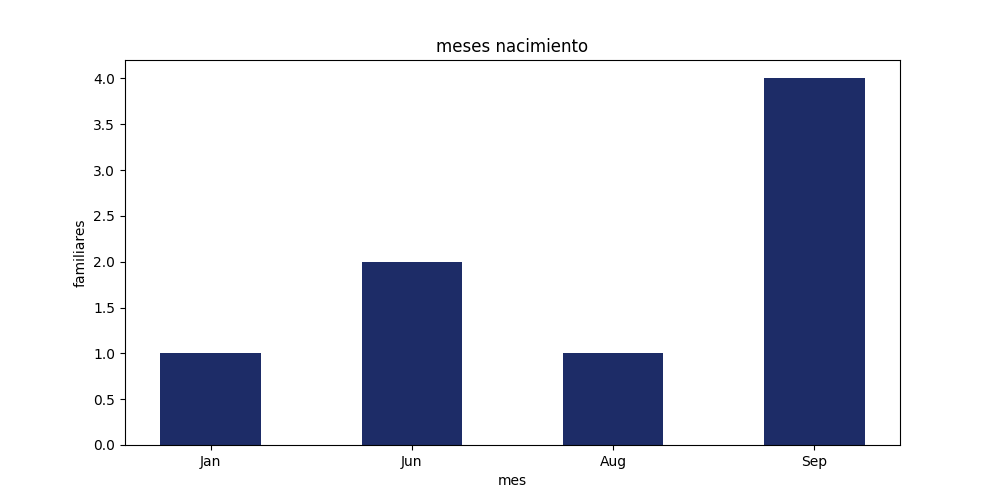
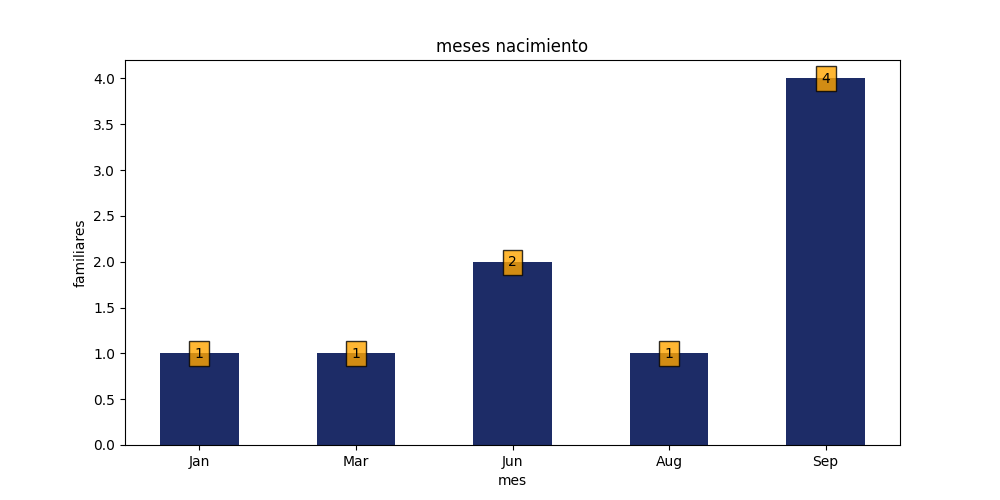
creacion de forms py, emebellezimiento de grafico

diff --git a/arbolFamiliarApp/templatetags/grafico_edades.py b/arbolFamiliarApp/templatetags/grafico_edades.py
@@ -8,6 +8,12 @@ register = template.Library()
 
 @register.simple_tag
 def grafico(familia):
+    """
+    It takes a list of objects, and returns a dictionary with the number of objects per month.
+
+    :param familia: list of Familiar objects
+    :return: A dictionary with the months as keys and the number of family members as values.
+    """
     pariente_x_mes = dict()
 
     for familiar in familia:
@@ -33,13 +39,28 @@ def grafico(familia):
             pariente_x_mes.items(), key=lambda x: datetime.datetime.strptime(x[0], "%b")
         )
     )
+
     print(pariente_x_mes)
     print(ordered_data)
+
+    parientes = []
+    for pariente in ordered_data.values():
+        parientes.append(pariente)
+
+    print(parientes)
     fig = plt.figure(figsize=(10, 5))
 
     # creating the bar plot
     plt.bar(ordered_data.keys(), ordered_data.values(), color="#1d2c67", width=0.5)
 
+    for i in range(len(parientes)):
+        plt.text(
+            i,
+            (parientes[i] - 0.05),
+            round(parientes[i], 1),
+            ha="center",
+            bbox=dict(facecolor="orange", alpha=0.8),
+        )
     plt.xlabel("mes")
     plt.ylabel("familiares")
     plt.title("meses nacimiento")

diff --git a/arbolFamiliarApp/models.py b/arbolFamiliarApp/models.py
@@ -12,10 +12,3 @@ class Familia(models.Model):
 
     def __str__(self):
         return self.nombre
-
-
-# It creates a form for the Familia model.
-class Carga_familia_form(ModelForm):
-    class Meta:
-        model = Familia
-        fields = ["nombre", "apellido", "fecha_de_nacimiento"]

diff --git a/arbolFamiliarApp/forms.py b/arbolFamiliarApp/forms.py
@@ -1,0 +1,8 @@
+from django.forms import ModelForm
+from arbolFamiliarApp.models import Familia
+
+# It creates a form for the Familia model.
+class Carga_familia_form(ModelForm):
+    class Meta:
+        model = Familia
+        fields = ["nombre", "apellido", "fecha_de_nacimiento"]

diff --git a/arbolFamiliarApp/views.py b/arbolFamiliarApp/views.py
@@ -1,6 +1,6 @@
 from django.shortcuts import render
-from arbolFamiliarApp.models import Familia, Carga_familia_form
-
+from arbolFamiliarApp.models import Familia
+from .forms import Carga_familia_form
 
 # Create your views here.
 
